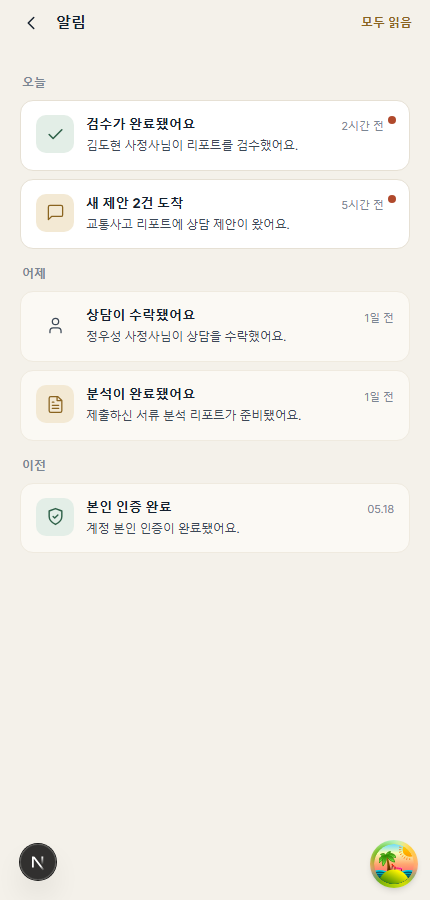
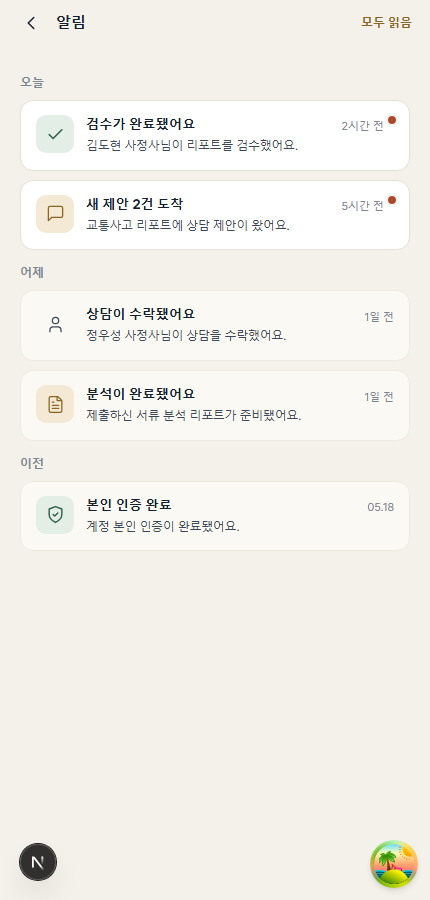
design : 알림 목록 간격 피그마 수치로 보정
* 그룹 간격 16→14px, 카드 간격 8→9px, 하단 여백 24→28px로 정렬
* 그룹 라벨 좌측 여백 제거해 카드와 좌측 정렬

diff --git a/apps/web/src/app/notifications/_components/NotificationList.tsx b/apps/web/src/app/notifications/_components/NotificationList.tsx
@@ -21,11 +21,11 @@ export function NotificationList() {
   const sections = groupNotificationsByDate(notifications);
 
   return (
-    <div className="px-5 pb-6 pt-5">
+    <div className="flex flex-col gap-3.5 px-5 pb-7 pt-5">
       {sections.map((section) => (
-        <section key={section.group} className="mt-4 first:mt-0">
-          <h2 className="px-0.5 text-[0.75rem] font-bold text-ink-3">{section.label}</h2>
-          <ul className="mt-2 flex flex-col gap-2">
+        <section key={section.group} className="flex flex-col gap-2">
+          <h2 className="text-[0.75rem] font-bold text-ink-3">{section.label}</h2>
+          <ul className="flex flex-col gap-[0.5625rem]">
             {section.items.map((notification) => (
               <li key={notification.notificationId}>
                 <NotificationCard notification={notification} />
